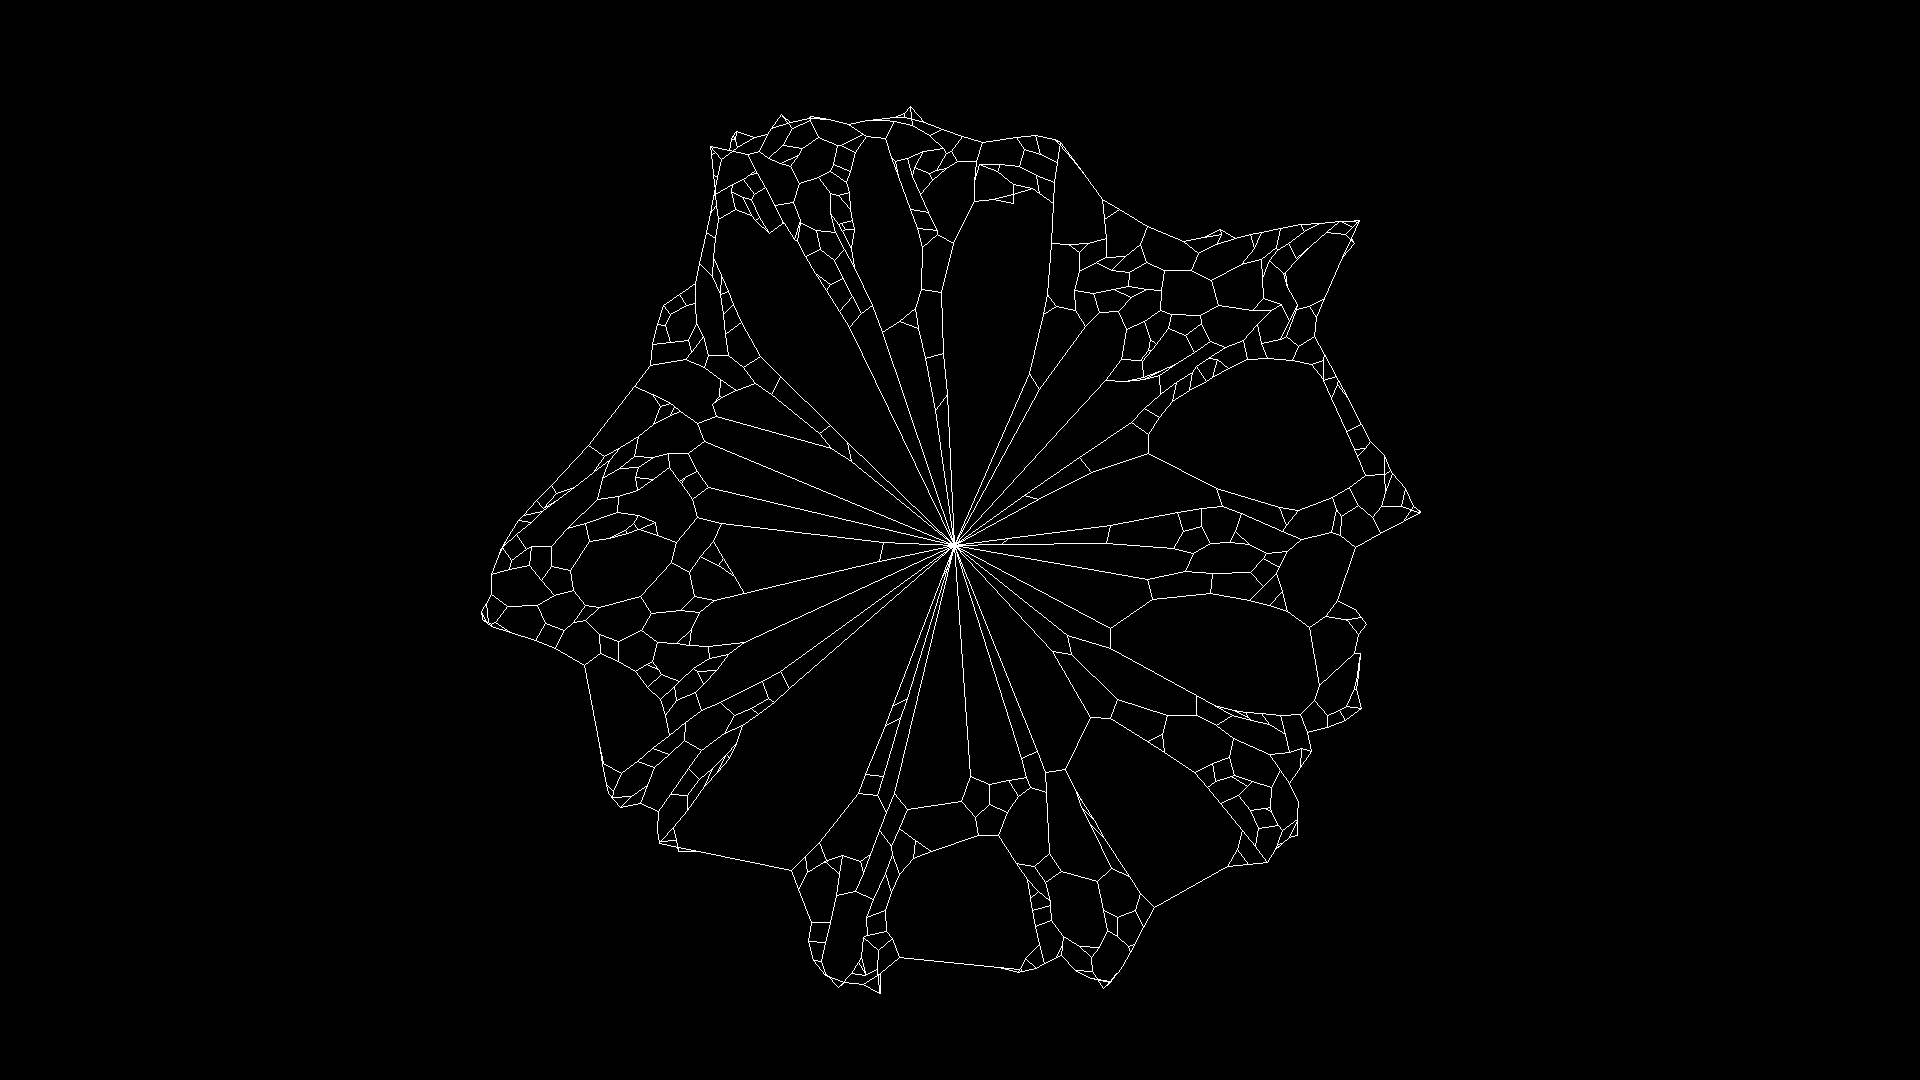
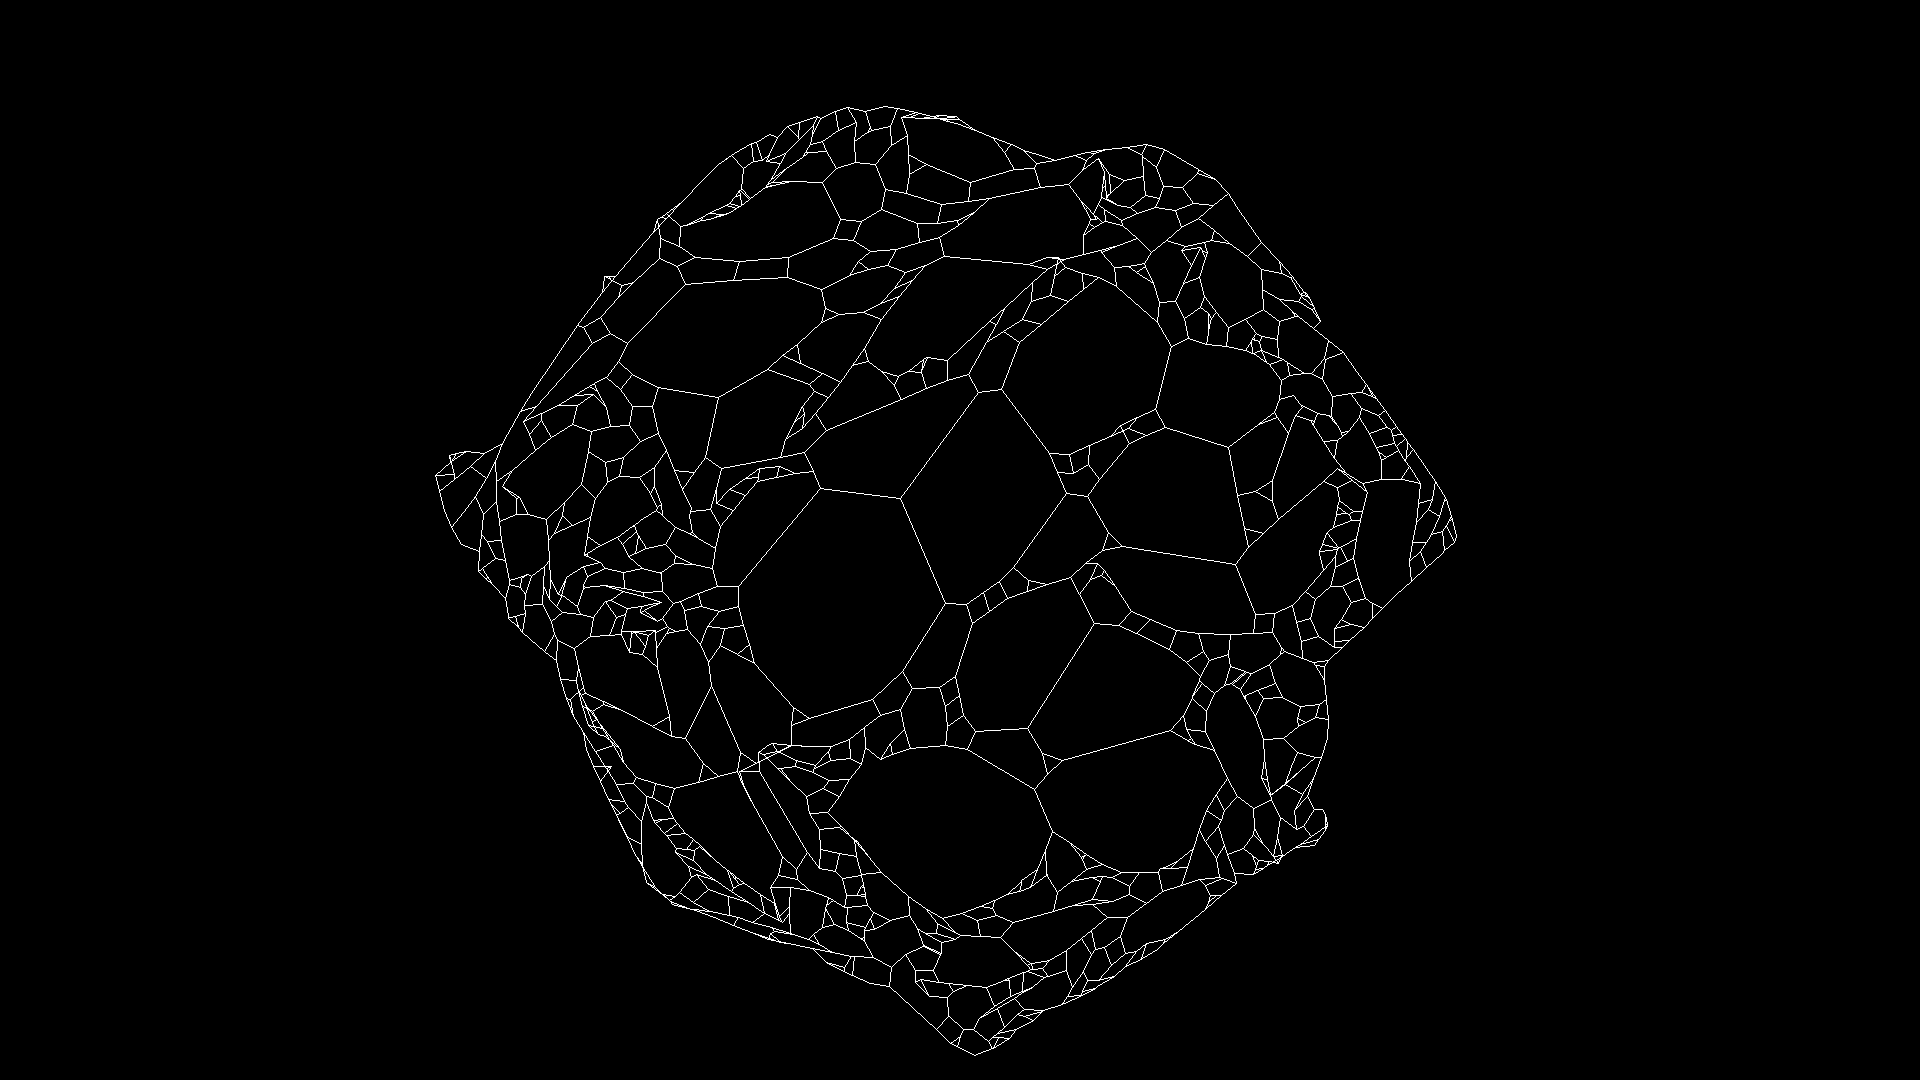
mattors/tangled-web: tune

diff --git a/mattors/art/tangled_web.rs b/mattors/art/tangled_web.rs
@@ -16,6 +16,9 @@ struct Vertex {
 
 /// generate a random image that can vaguely resemble a spider web.
 pub fn generate(img: &mut image::RgbImage, iterations: usize, circle_divisions: u8) {
+    use std::f64::consts::PI;
+    const TWO_PI: f64 = PI * 2.0;
+
     let mut rng = rand::thread_rng();
     let mut drawer = Drawer::new_with_no_blending(img);
 
@@ -24,13 +27,6 @@ pub fn generate(img: &mut image::RgbImage, iterations: usize, circle_divisions: 
     let height = f64::from(height);
     let scale = width.min(height) * 0.5;
 
-    let line_pt = |p: PointF64| -> PointU32 {
-        PointU32::new(
-            p.x.max(0.0).min(width) as u32,
-            p.y.max(0.0).min(width) as u32,
-        )
-    };
-
     let mut edges = HashSet::new();
     let mut vertices = vec![Vertex::new(PointF64::new(
         width / 2.0 + scale,
@@ -38,8 +34,7 @@ pub fn generate(img: &mut image::RgbImage, iterations: usize, circle_divisions: 
     ))];
 
     for i in 1..circle_divisions {
-        let a = 360.0 / f64::from(circle_divisions) * f64::from(i);
-        let a = a.to_radians();
+        let a = f64::from(i) * TWO_PI / f64::from(circle_divisions - 1);
 
         let id = usize::from(i);
         let prev_id = usize::from(id - 1);
@@ -63,22 +58,13 @@ pub fn generate(img: &mut image::RgbImage, iterations: usize, circle_divisions: 
         .insert(0);
     edges.insert((vertices.len() - 1, 0));
 
-    let mut center = Vertex::new(PointF64::new(width / 2.0, height / 2.0));
-    center.neighbors.extend(0..vertices.len());
-    vertices.push(center);
-    edges.extend((0..vertices.len()).map(|c| (vertices.len() - 1, c)));
-
-    for it in 0..iterations {
-        let a0 = rng.gen_range(0.0, 360.0_f64.to_radians());
+    for _ in 0..iterations {
+        let a0 = rng.gen_range(0.0, TWO_PI);
         let r0 = rng.gen_range(scale / 2.0, scale);
         let p0 = PointF64::new(width / 2.0 + a0.cos() * r0, height / 2.0 + a0.sin() * r0);
 
-        let a1 = rng.gen_range(0.0, 360.0_f64.to_radians());
-        let d1 = if it < 1000 {
-            (width.powi(2) + height.powi(2)).sqrt()
-        } else {
-            rng.gen_range(-0.5, 0.5) * scale
-        };
+        let a1 = rng.gen_range(0.0, TWO_PI);
+        let d1 = (width.powi(2) + height.powi(2)).sqrt();
         let p1 = PointF64::new(p0.x + a1.cos() * d1, p0.y + a1.sin() * d1);
 
         let mut intersections = edges
@@ -151,6 +137,12 @@ pub fn generate(img: &mut image::RgbImage, iterations: usize, circle_divisions: 
         vertices = new_vertices;
     }
 
+    let line_pt = |p: PointF64| -> PointU32 {
+        PointU32::new(
+            p.x.max(0.0).min(width) as u32,
+            p.y.max(0.0).min(width) as u32,
+        )
+    };
     for (v0, v1) in &edges {
         drawer.line(
             line_pt(vertices[*v0].position),

diff --git a/mattors/main.rs b/mattors/main.rs
@@ -559,7 +559,7 @@ pub struct TangledWeb {
     height: u32,
 
     /// Number of iterations to divive the given image of.
-    #[structopt(short = "i", long = "iterations", default_value = "600")]
+    #[structopt(short = "i", long = "iterations", default_value = "1000")]
     iterations: usize,
 
     /// Number of divisions to break the initial circle into.
